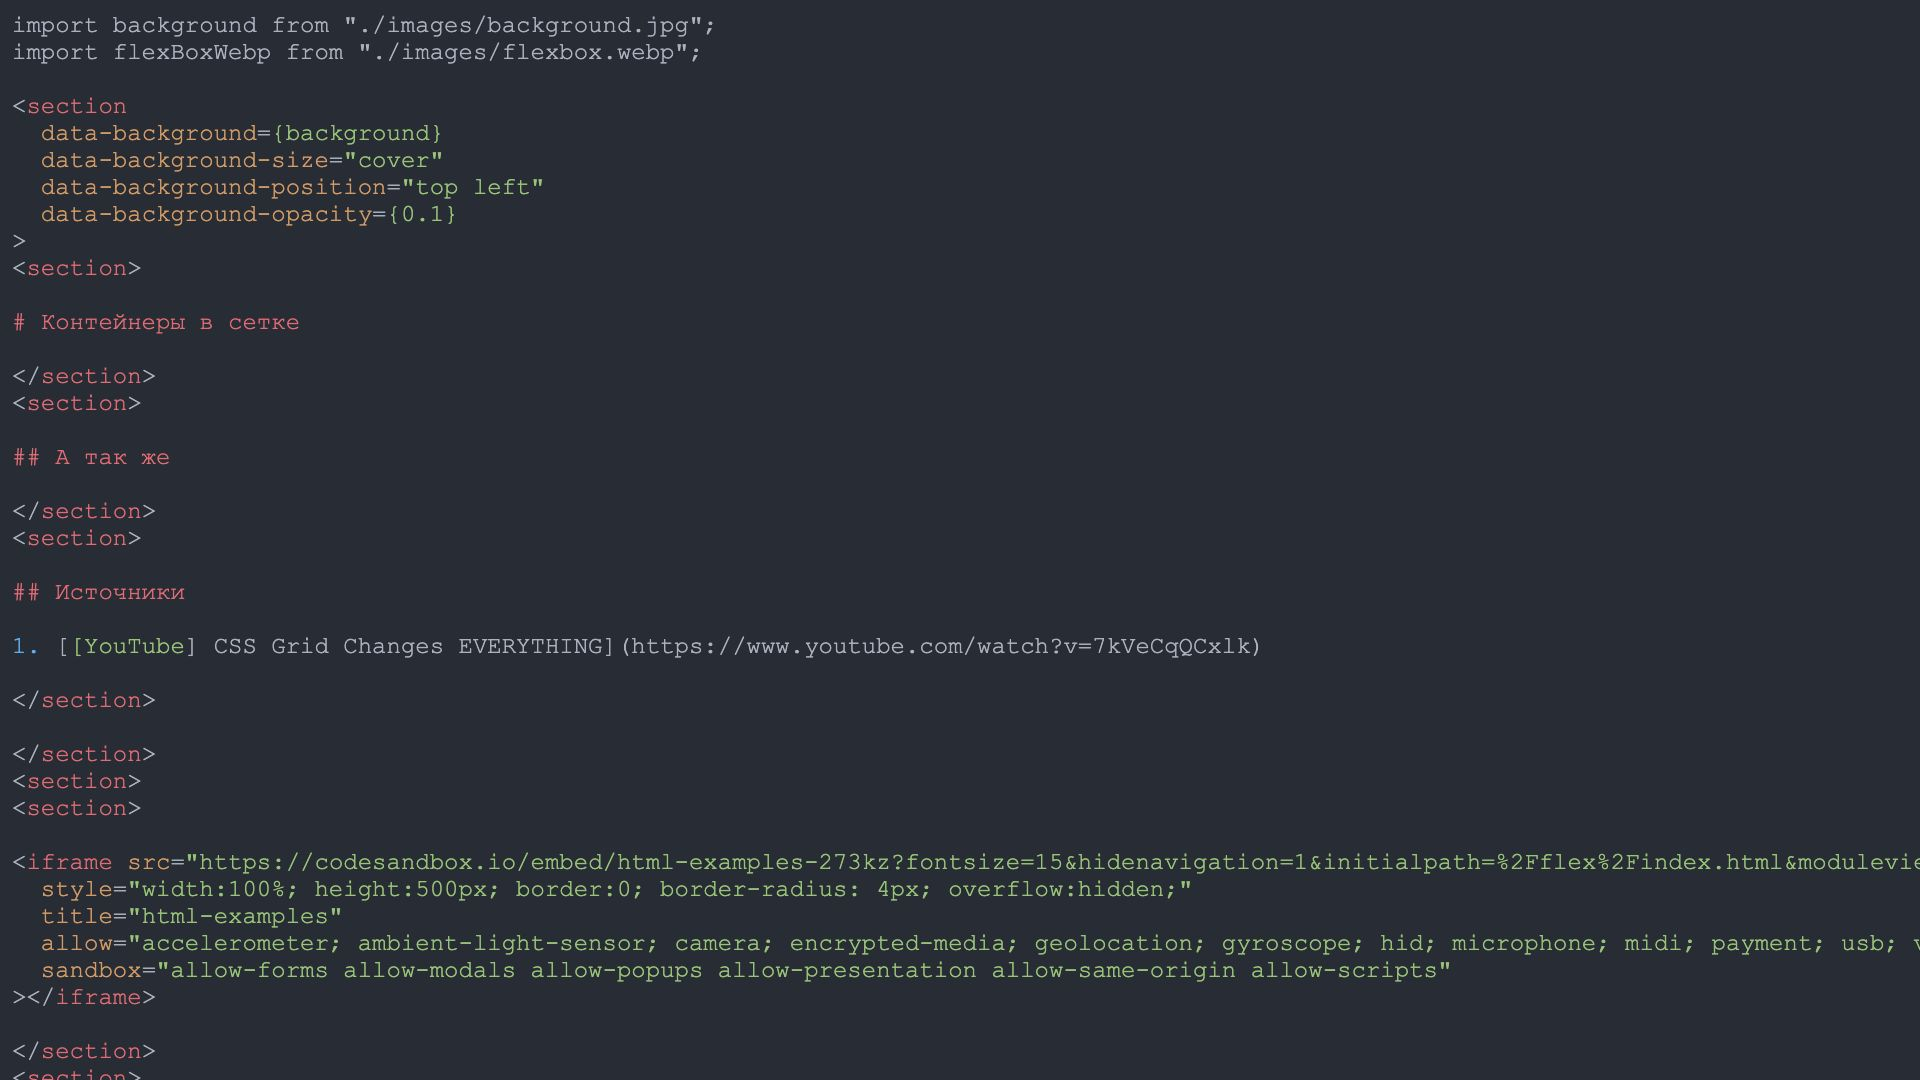
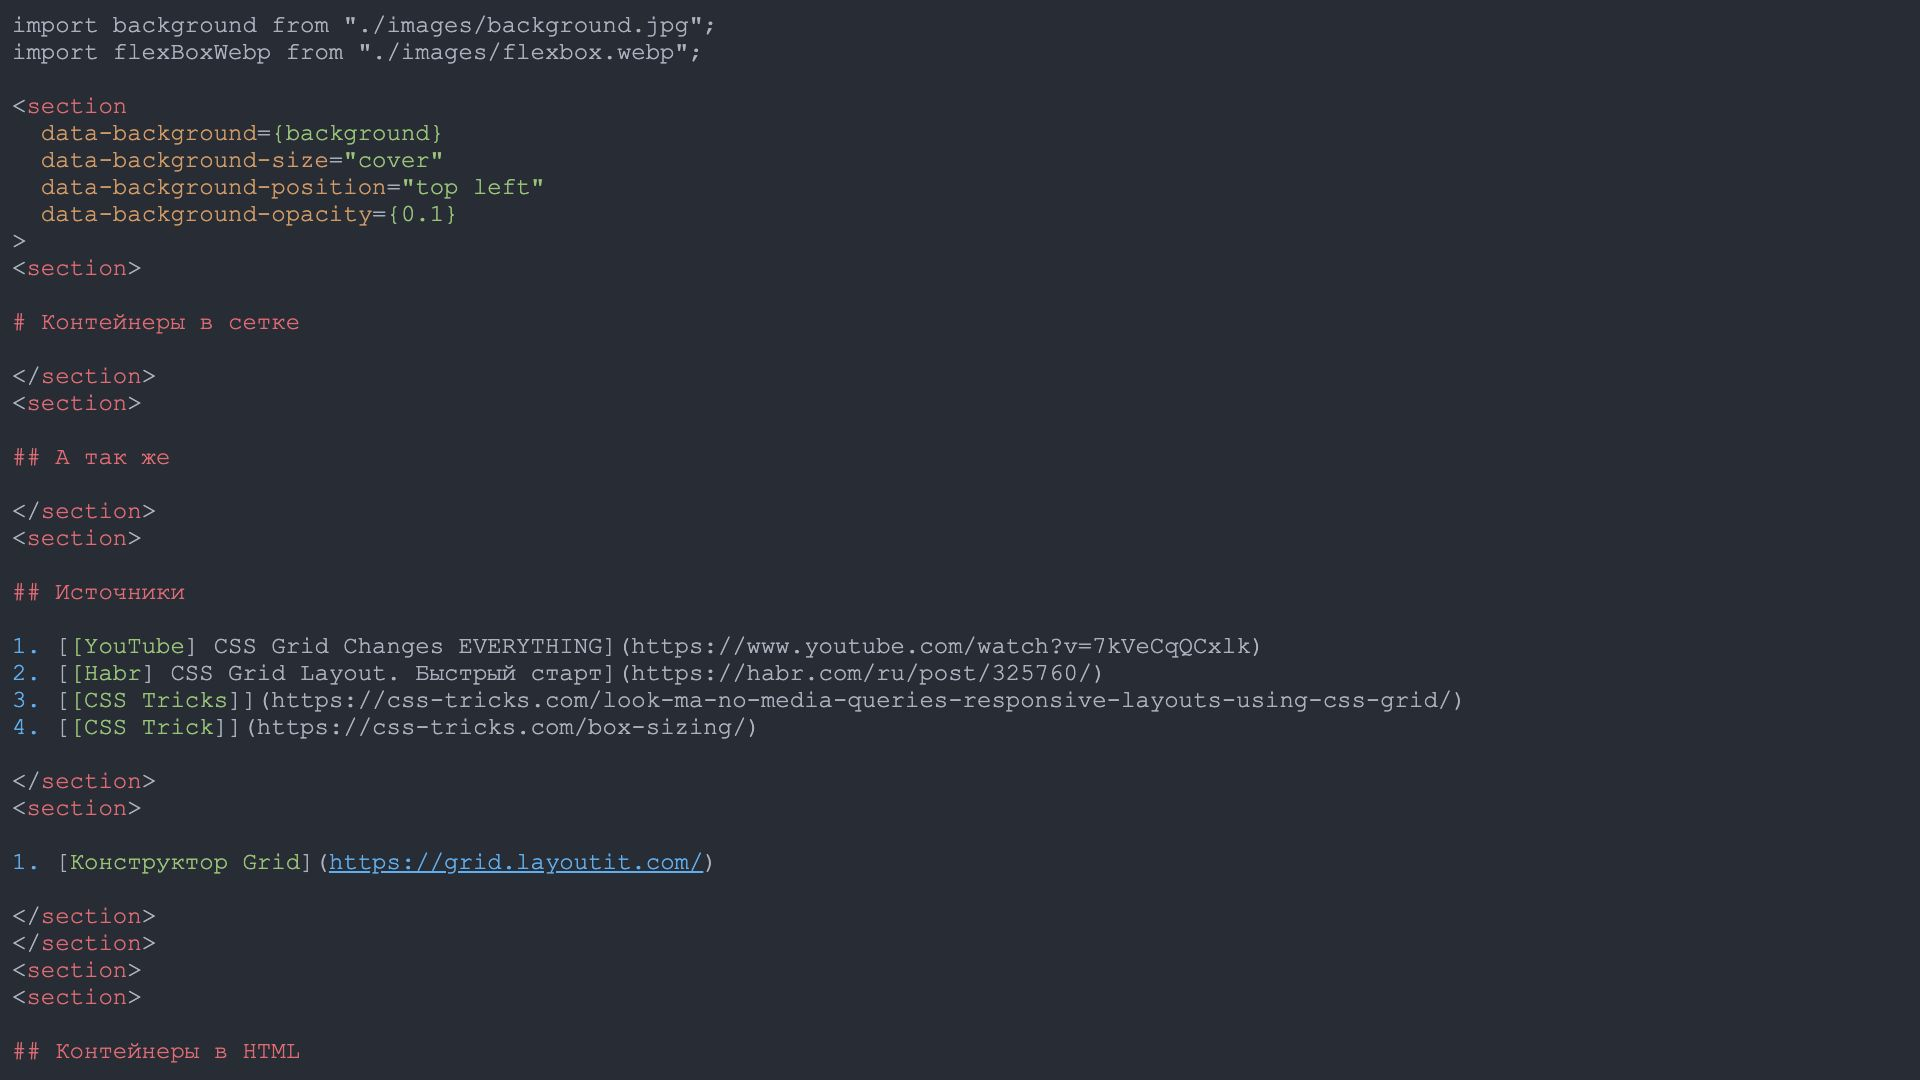
add codesandbox

Changed region(s): [[0.0, 0.7944, 1.0, 1.0], [0.0, 0.6111, 0.75, 0.7333], [0.125, 0.9472, 0.1562, 0.9778]]

diff --git a/src/components/common/CodeSandbox.js b/src/components/common/CodeSandbox.js
@@ -1,0 +1,34 @@
+const EXAMPLES = {
+  html: "html-examples-273kz",
+};
+
+export default function CodeSanbox({
+  height = 600,
+  stage,
+  id,
+  lesson,
+  example,
+  files,
+}) {
+  const sanboxId = id || EXAMPLES[stage];
+  const initalPath = encodeURIComponent(`/${lesson}/${example}/index.html`);
+  const module = files
+    .map(file => encodeURIComponent(`/${lesson}/${example}/${file}`))
+    .join(",");
+  const src = `https://codesandbox.io/embed/${sanboxId}?fontsize=15&hidenavigation=1&initialpath=${initalPath}&moduleview=0&theme=dark&hidedevtools=1&module=${module}&view=split&expanddevtools=0&forcerefresh=1`;
+  return (
+    <iframe
+      src={src}
+      style={{
+        width: "100%",
+        height: `${height}px`,
+        border: 0,
+        borderRadius: "4px",
+        overflow: "hidden",
+      }}
+      title="html-examples"
+      allow="accelerometer; ambient-light-sensor; camera; encrypted-media; geolocation; gyroscope; hid; microphone; midi; payment; usb; vr; xr-spatial-tracking"
+      sandbox="allow-forms allow-modals allow-popups allow-presentation allow-same-origin allow-scripts"
+    />
+  );
+}

diff --git a/src/components/lessons/mdx/index.js b/src/components/lessons/mdx/index.js
@@ -4,6 +4,7 @@ import Hotkey from "components/Hotkey";
 import Code from "../reveal/RevealCode";
 import Pre from "../reveal/RevealPre";
 import icons from "components/common/Icons";
+import CodeSandbox from "components/common/CodeSandbox";
 
 const A = props => <a {...props} target="blank" />;
 
@@ -14,6 +15,7 @@ export default {
   pre: Pre,
   Code,
   Hotkey,
+  CodeSandbox,
   ...revealComponents,
   ...icons,
 };

diff --git a/src/lib/reveal-theme/source/hipsta.scss b/src/lib/reveal-theme/source/hipsta.scss
@@ -71,6 +71,10 @@ $heading4Size: 1.0em;
 	margin: 1em 0 1em 1em;
 }
 
+.reveal li ul, .reveal li ol {
+	margin: 0 1em;
+}
+
 .reveal table ul {
   margin: 0;
 }
